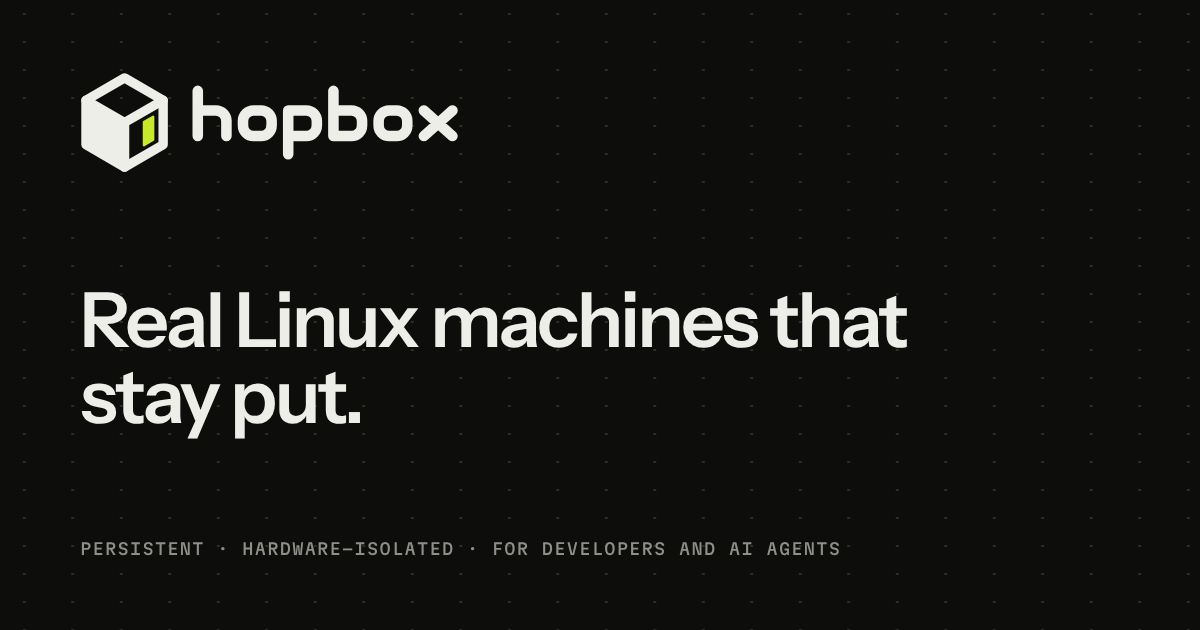
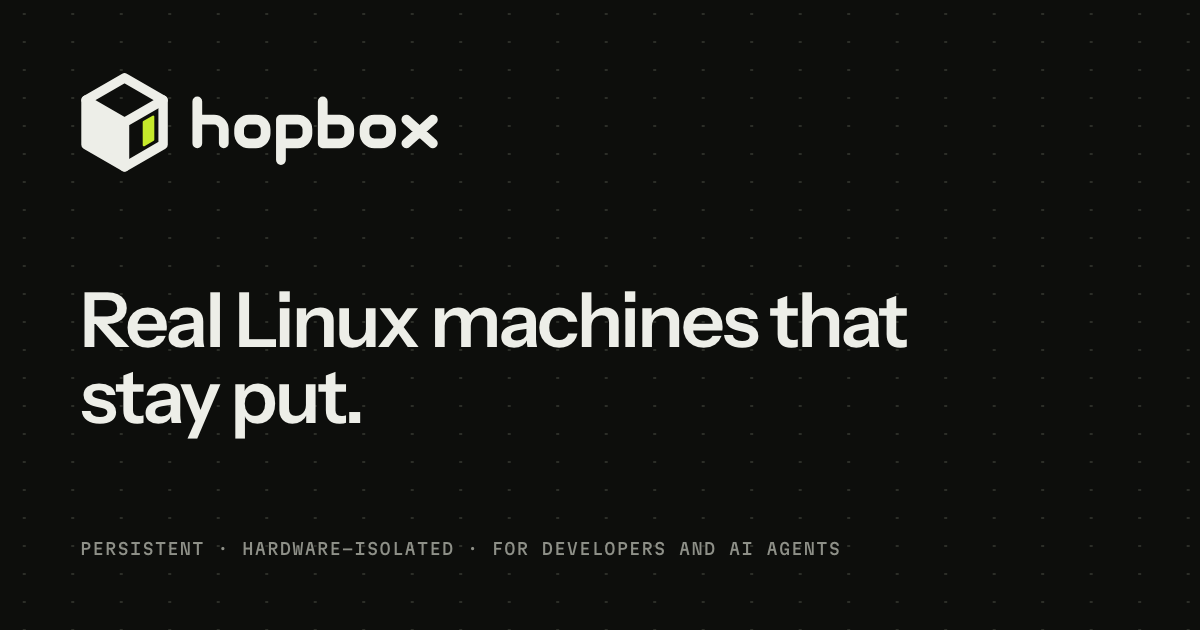
feat: use the new lockup and Open Graph image from the kit
The kit moved the wordmark so that the top and bottom of the h line up with the right edge of the cube. The lockup is now narrower, so the image sizes in the nav and footer follow the new ratio.

Changed region(s): [[0.1542, 0.1206, 0.4008, 0.2714], [0.1542, 0.5127, 0.185, 0.5429]]

diff --git a/roadmap/index.html b/roadmap/index.html
@@ -27,7 +27,7 @@
 
 <header class="site-header">
 <nav class="nav" aria-label="Main">
-<a class="brand" href="/" aria-label="Hopbox home"><img src="/assets/brand/hopbox-lockup.svg" alt="" width="113" height="30"></a>
+<a class="brand" href="/" aria-label="Hopbox home"><img src="/assets/brand/hopbox-lockup.svg" alt="" width="107" height="30"></a>
 <div class="nav-links">
 <a class="nav-link" href="/use-cases/">Use cases</a>
 <a class="nav-link" href="/roadmap/" aria-current="page">Roadmap</a>
@@ -153,7 +153,7 @@
 
 <footer class="site-footer">
 <div class="footer-inner">
-<img class="footer-brand" src="/assets/brand/hopbox-lockup.svg" alt="Hopbox" width="105" height="28">
+<img class="footer-brand" src="/assets/brand/hopbox-lockup.svg" alt="Hopbox" width="100" height="28">
 <a class="footer-link" href="/use-cases/">Use cases</a>
 <a class="footer-link" href="/roadmap/">Roadmap</a>
 <a class="footer-link" href="https://docs.hopbox.dev">Docs</a>

diff --git a/use-cases/index.html b/use-cases/index.html
@@ -27,7 +27,7 @@
 
 <header class="site-header">
 <nav class="nav" aria-label="Main">
-<a class="brand" href="/" aria-label="Hopbox home"><img src="/assets/brand/hopbox-lockup.svg" alt="" width="113" height="30"></a>
+<a class="brand" href="/" aria-label="Hopbox home"><img src="/assets/brand/hopbox-lockup.svg" alt="" width="107" height="30"></a>
 <div class="nav-links">
 <a class="nav-link" href="/use-cases/" aria-current="page">Use cases</a>
 <a class="nav-link" href="/roadmap/">Roadmap</a>
@@ -142,7 +142,7 @@
 
 <footer class="site-footer">
 <div class="footer-inner">
-<img class="footer-brand" src="/assets/brand/hopbox-lockup.svg" alt="Hopbox" width="105" height="28">
+<img class="footer-brand" src="/assets/brand/hopbox-lockup.svg" alt="Hopbox" width="100" height="28">
 <a class="footer-link" href="/use-cases/">Use cases</a>
 <a class="footer-link" href="/roadmap/">Roadmap</a>
 <a class="footer-link" href="https://docs.hopbox.dev">Docs</a>

diff --git a/index.html b/index.html
@@ -27,7 +27,7 @@
 
 <header class="site-header">
 <nav class="nav" aria-label="Main">
-<a class="brand" href="/" aria-label="Hopbox home"><img src="/assets/brand/hopbox-lockup.svg" alt="" width="113" height="30"></a>
+<a class="brand" href="/" aria-label="Hopbox home"><img src="/assets/brand/hopbox-lockup.svg" alt="" width="107" height="30"></a>
 <div class="nav-links">
 <a class="nav-link" href="/use-cases/">Use cases</a>
 <a class="nav-link" href="/roadmap/">Roadmap</a>
@@ -219,7 +219,7 @@
 
 <footer class="site-footer">
 <div class="footer-inner">
-<img class="footer-brand" src="/assets/brand/hopbox-lockup.svg" alt="Hopbox" width="105" height="28">
+<img class="footer-brand" src="/assets/brand/hopbox-lockup.svg" alt="Hopbox" width="100" height="28">
 <a class="footer-link" href="/use-cases/">Use cases</a>
 <a class="footer-link" href="/roadmap/">Roadmap</a>
 <a class="footer-link" href="https://docs.hopbox.dev">Docs</a>

diff --git a/404.html b/404.html
@@ -25,7 +25,7 @@
 
 <header class="site-header">
 <nav class="nav" aria-label="Main">
-<a class="brand" href="/" aria-label="Hopbox home"><img src="/assets/brand/hopbox-lockup.svg" alt="" width="113" height="30"></a>
+<a class="brand" href="/" aria-label="Hopbox home"><img src="/assets/brand/hopbox-lockup.svg" alt="" width="107" height="30"></a>
 </nav>
 </header>
 
